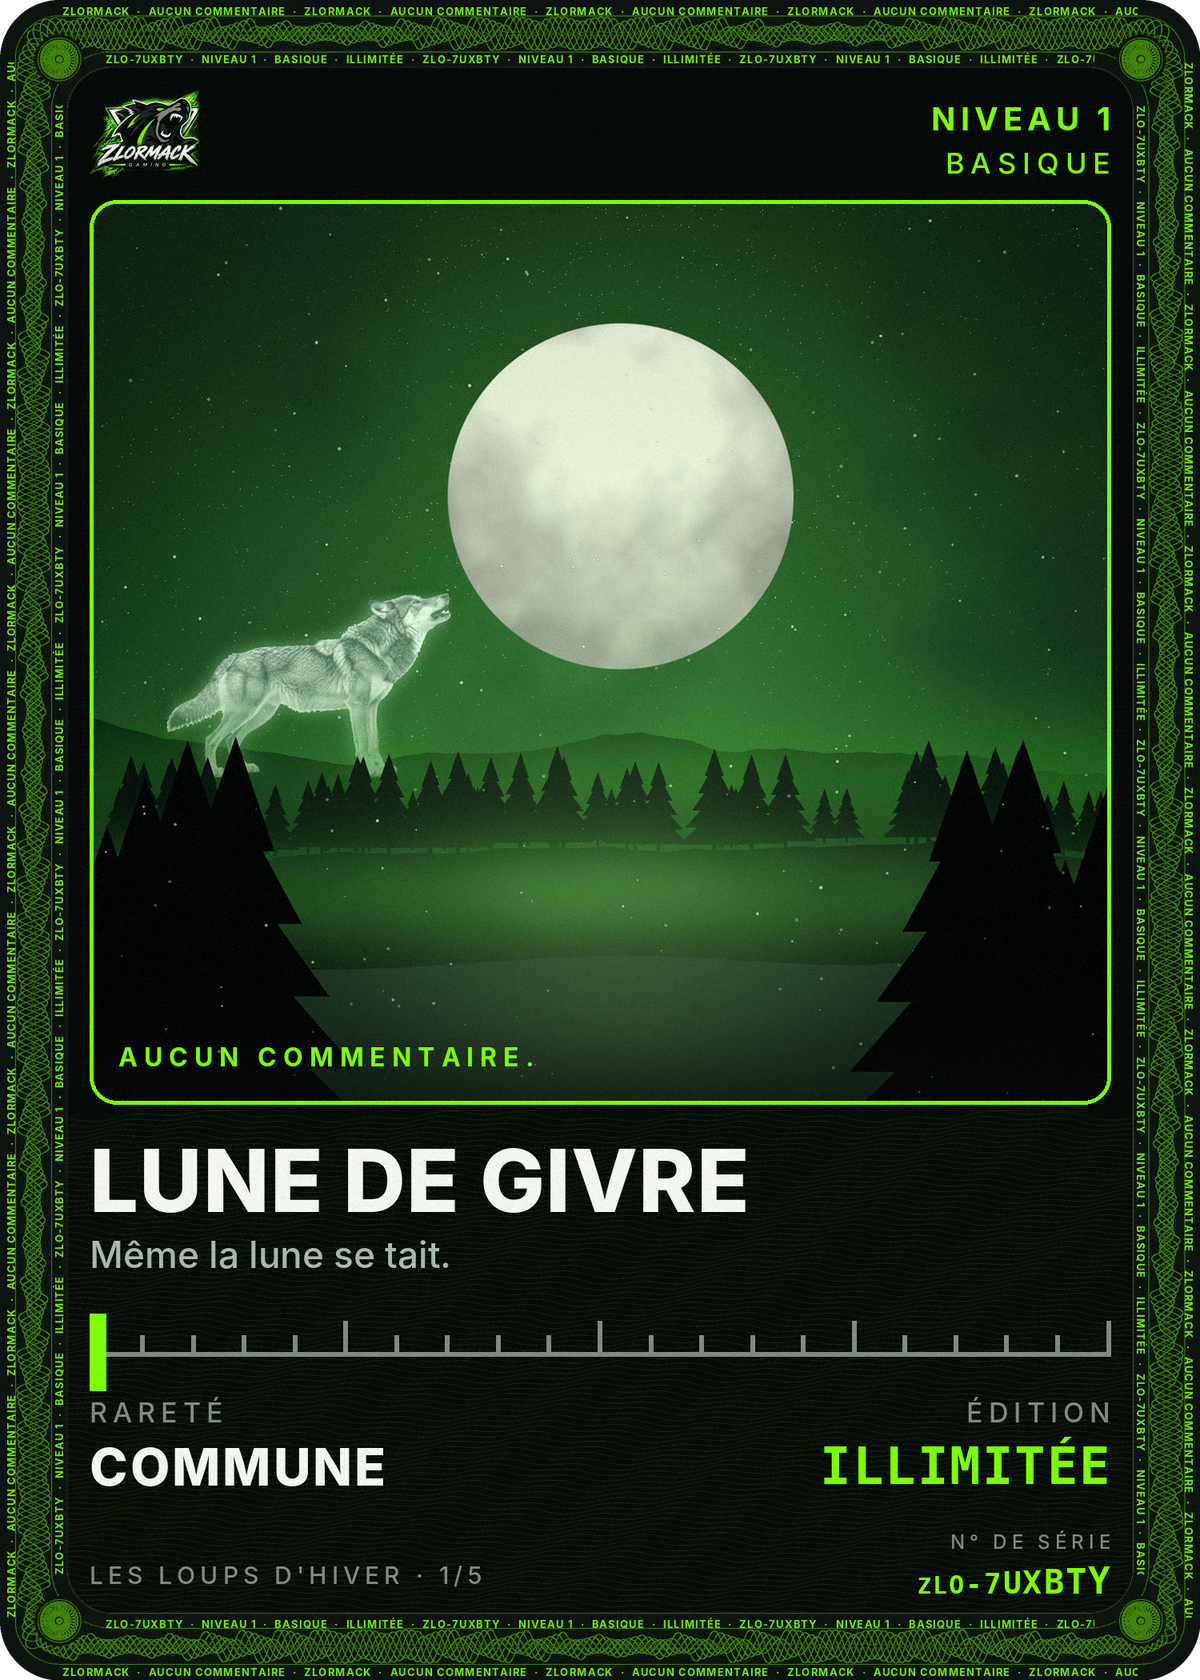
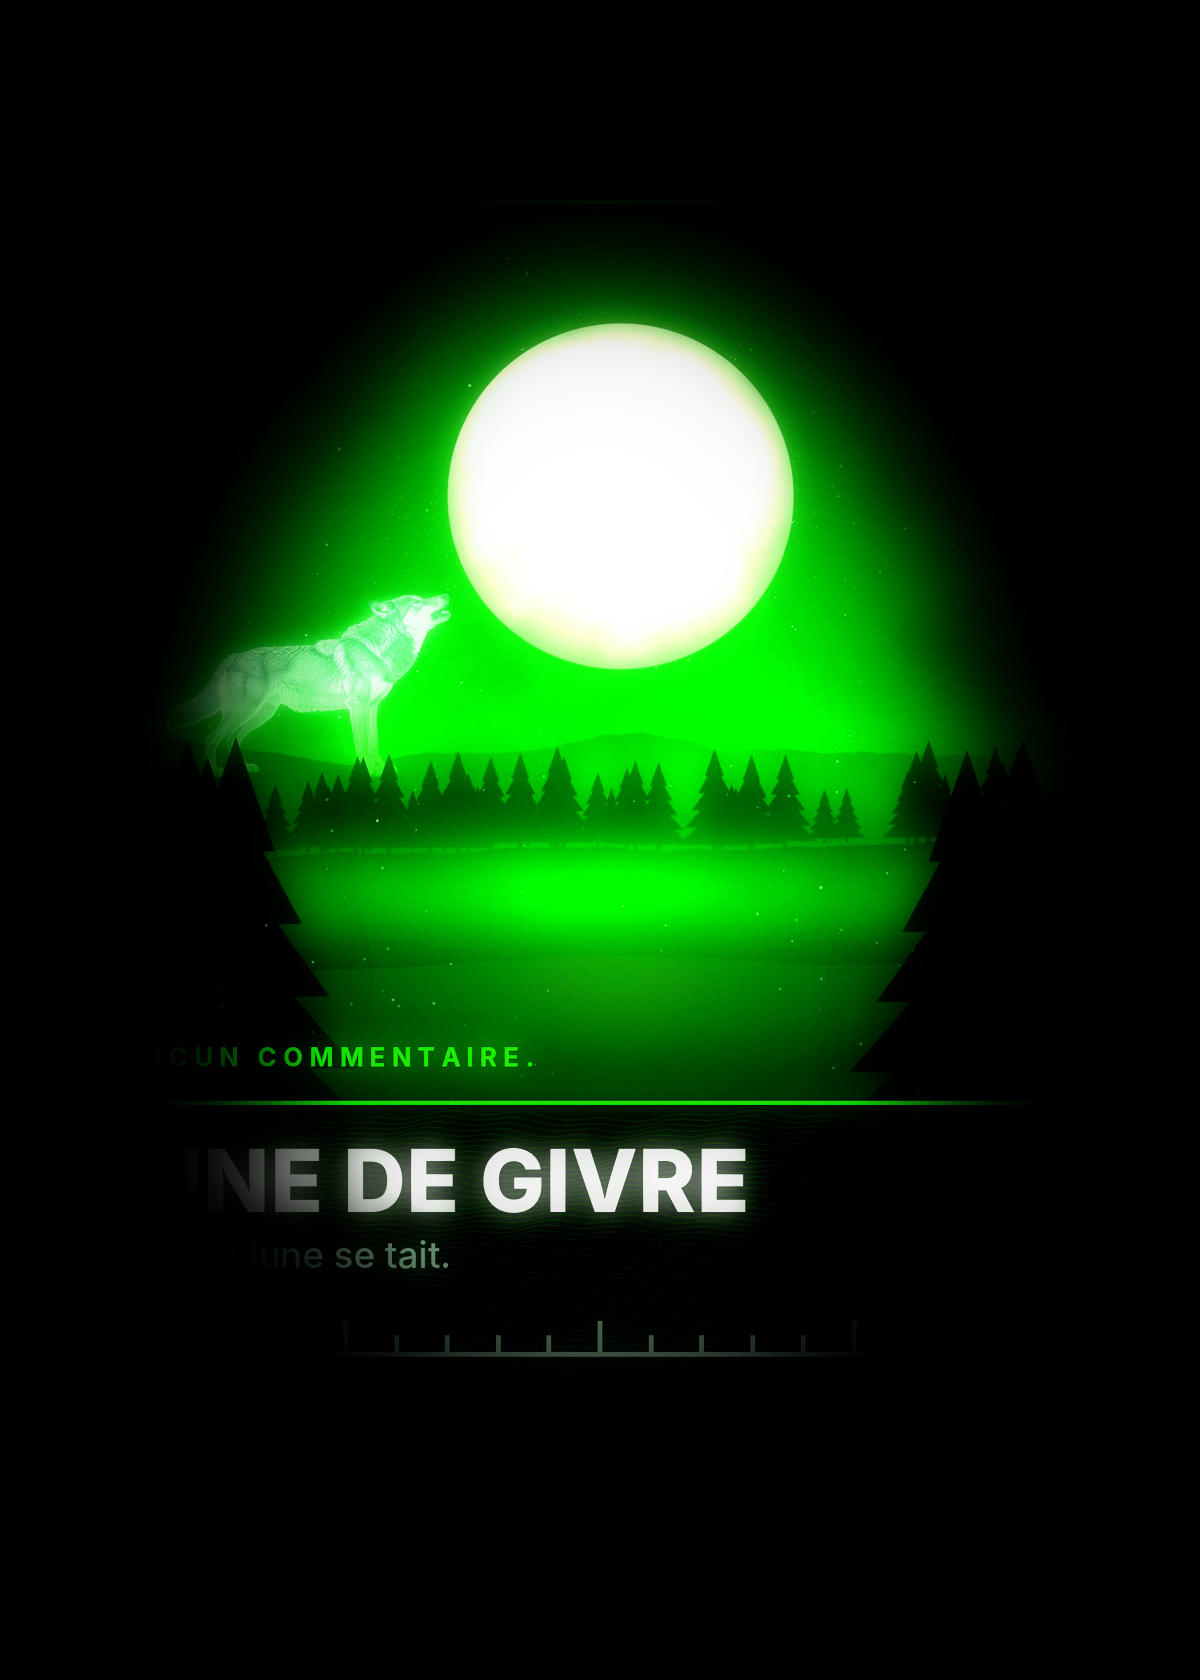
Auto: Mise à jour des cartes gratuites du 15/11/2026

diff --git a/index.html b/index.html
@@ -644,7 +644,13 @@ a[aria-disabled="true"]::after {
     </footer>
   </main>
 <!--CARTES-PANEL:end-->
-<!-- ========================================== -->
+
+  <footer class="sitefoot">
+    <div class="footer-content">
+      <div class="footer-brand">
+        <span><b>ZLORMACK GAMING.</b> Gameplay sans commentaire parlé, en mini-films.</span>
+      </div>
+      <!-- ========================================== -->
 <!-- PONTS VERS LE BLOG ET LA COMMUNAUTE        -->
 <!-- ========================================== -->
 <section style="max-width: 900px; margin: 50px auto 20px; padding: 0 20px; text-align: center;">
@@ -692,18 +698,13 @@ a[aria-disabled="true"]::after {
 
     </div>
 </section>
-  <footer class="sitefoot">
-    <div class="footer-content">
-      <div class="footer-brand">
-        <span><b>ZLORMACK GAMING.</b> Gameplay sans commentaire parlé, en mini-films.</span>
-      </div>
       <nav class="fnav" aria-label="Liens du site">
         <a href="https://zlormann.github.io/zlormack/" data-tab="wallpapers">Wallpapers</a>
         <a href="https://zlormann.github.io/zlormack/cartes/" data-tab="cartes">Cartes</a>
         <a href="https://zlormack.gumroad.com" target="_blank" rel="noopener" style="color: #D4AF37; font-weight: bold;">Boutique</a>
         <a href="https://www.youtube.com/@Zlormack" target="_blank" rel="noopener">YouTube</a>
         <a href="https://zlormack-game-enjoy.blogspot.com/" target="_blank" rel="noopener">Blog</a>
-        <a href="https://discord.gg/F3vUgGazyg" target="_blank" rel="noopener" style="color: #5865F2; font-weight: bold;">Discord</a>
+        <a href="" target="_blank" rel="noopener" style="color: #5865F2; font-weight: bold;">Discord</a>
         <a href="https://bsky.app/profile/zlormaengine.bsky.social" target="_blank" rel="noopener" style="color: #0085FF;">Bluesky</a>
         <a href="https://facebook.com/ZlormackGameEnjoy" target="_blank" rel="noopener" style="color: #1877F2;">Facebook</a>
         <a href="https://tiktok.com/@zlorman" target="_blank" rel="noopener">TikTok</a>
